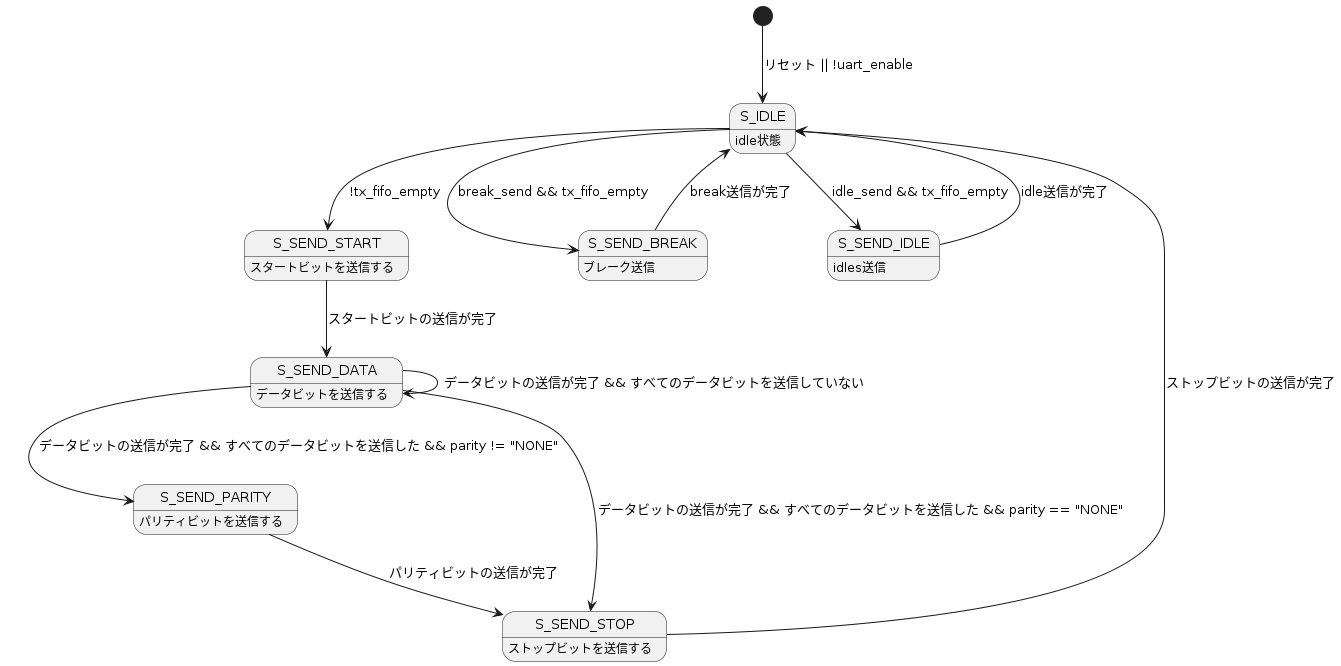
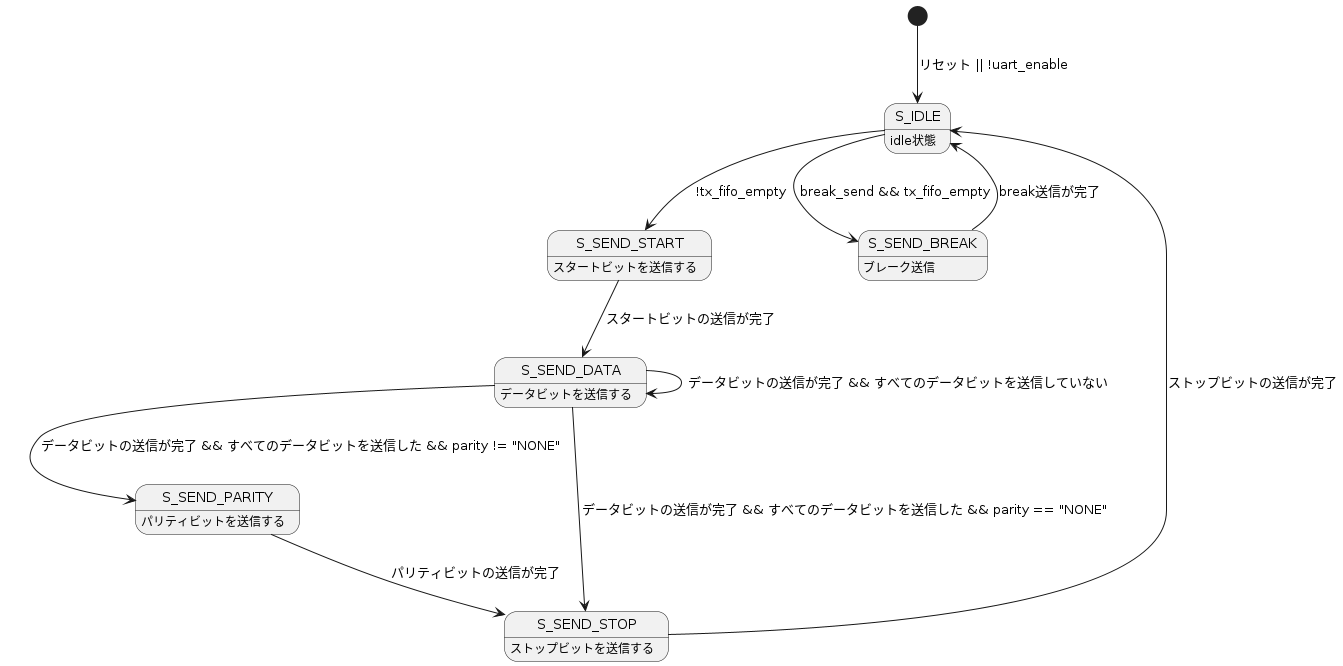
[update] uart reg

diff --git a/peripheral/uart/doc/designspec.md b/peripheral/uart/doc/designspec.md
@@ -36,10 +36,12 @@
 
 ### UART_CTRL(0x00)
 
-| ビット | フィールド名 | アクセス | 詳細                          |
-|--------|--------------|----------|-------------------------------|
-| [31:1] | reserved     | -        |                               |
-| [0]    | uart_enable  | R/W      | 0:uart動作停止,1:uart動作開始 |
+| ビット | フィールド名 | アクセス | 詳細                          |                                      |
+|--------|--------------|----------|-------------------------------|--------------------------------------|
+| [31:5] | reserved     | -        |                               |                                      |
+| [4]    | break_send   | R/W      | 0                             | 1にしている間、break状態を送信します |
+| [3:1]  | reserved     | -        |                               |                                      |
+| [0]    | uart_enable  | R/W      | 0:uart動作停止,1:uart動作開始 |                                      |
 
 
 ### UART_CONF_FRAME(0x04)
@@ -85,9 +87,8 @@
 
 | ビット | フィールド名 | RW  | init | 詳細                                 |
 |--------|--------------|-----|------|--------------------------------------|
-| [31:5] | reserved     | -   | -    |                                      |
-| [4]    | break_send   | R/W | 0    | 1にしている間、break状態を送信します |
-| [3:0]  | data         | R/W | 0    | W:txデータセット、R:受信データ取得   |
+| [31:8] | reserved     | -   | -    |                                      |
+| [7:0]  | data         | R/W | 0    | W:txデータセット、R:受信データ取得   |
 
 
 
@@ -275,4 +276,4 @@ $$ baudrate = \frac{F_{over_samp}}{over\_samp\_ratio} =   \frac{F_{sysclk}}{{UAR
 ## 制約
 
 ### idle/break送信
-idle/breakを送信する場合は、tx_fifoが空の状態で送信してください
+breakを送信する場合は、tx_fifoが空の状態で送信してください
